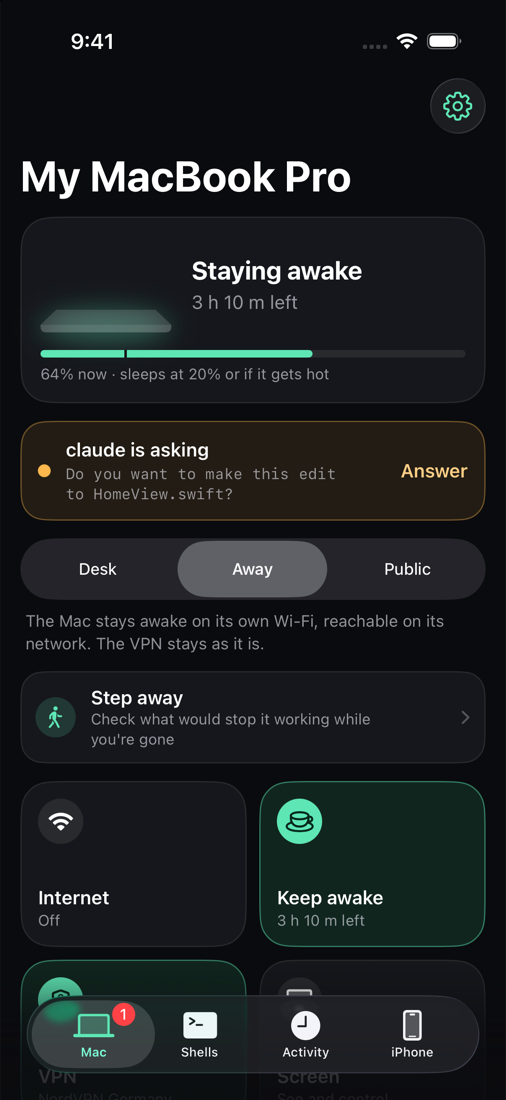
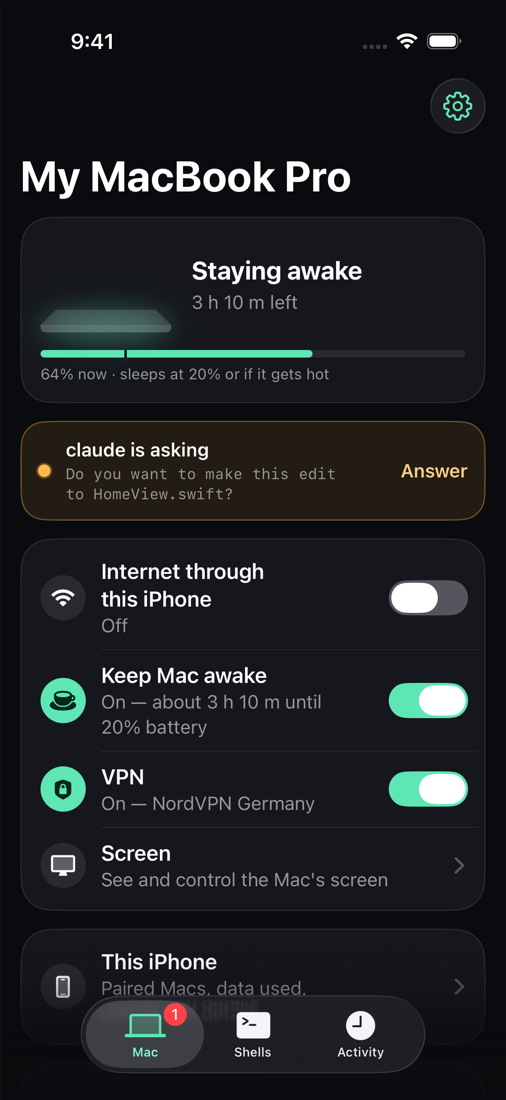
README: screenshots and wording for the three switches

diff --git a/README.md b/README.md
@@ -7,12 +7,12 @@ For iPhone and Android. No accounts, no Passthrough server.</p>
 <p align="center">
   <picture>
     <source media="(prefers-color-scheme: light)" srcset="docs/images/iphone-mac-light.png">
-    <img src="docs/images/iphone-mac-dark.png" width="250" alt="The iPhone app's Mac tab: the Mac staying awake with 3 hours 10 minutes left, a shell asking a question, and the Internet, Keep awake and VPN switches">
+    <img src="docs/images/iphone-mac-dark.png" width="250" alt="The iPhone app's Mac tab: the Mac staying awake with 3 hours 10 minutes left, a shell asking a question, and switches for Internet through this iPhone, Keep Mac awake and VPN">
   </picture>
   &nbsp;
   <picture>
     <source media="(prefers-color-scheme: light)" srcset="docs/images/mac-panel-light.png">
-    <img src="docs/images/mac-panel-dark.png" width="290" alt="The Mac's menu-bar panel: online through the iPhone, three switches, the route and live speeds, and what the phone is doing on the Mac">
+    <img src="docs/images/mac-panel-dark.png" width="290" alt="The Mac's menu-bar panel: online through the iPhone with the VPN on, three switches with their status, and the route and live speeds below">
   </picture>
   &nbsp;
   <img src="docs/images/iphone-activity.png" width="250" alt="The Activity tab: shells finished, questions answered and connection drops, the Mac's battery as a line, and a timeline of what happened">
@@ -49,7 +49,7 @@ The phone apps open on your Mac: three switches, **Internet through this phone**
   <img src="docs/images/mac-notice-capsule.png" width="380" alt="The same kind of notice as a capsule under the menu bar on a screen without a notch">
 </p>
 <p align="center">
-  <img src="docs/images/mac-menubar.png" width="560" alt="The menu-bar icon's states: off, online, awake, VPN on, a shell needs you, and a problem">
+  <img src="docs/images/mac-menubar.png" width="560" alt="The menu-bar icon's states: the phone alone, online, with a cup while awake and a lock while the VPN is on, an amber dot when a shell needs you, and an amber phone when something is wrong">
 </p>
 
 A menu-bar app with the same three switches; one that can't turn on says why and offers the fix. When the phone changes something, a notice grows out of the notch (or drops in under the menu bar on screens without one), and anything that lowers protection stays until someone at the Mac sees it. The icon says it all at a glance: online, awake, VPN on, a shell waiting on you, or something wrong. On first launch it asks what you want the phone to do and only asks for permissions when each one is first needed.
